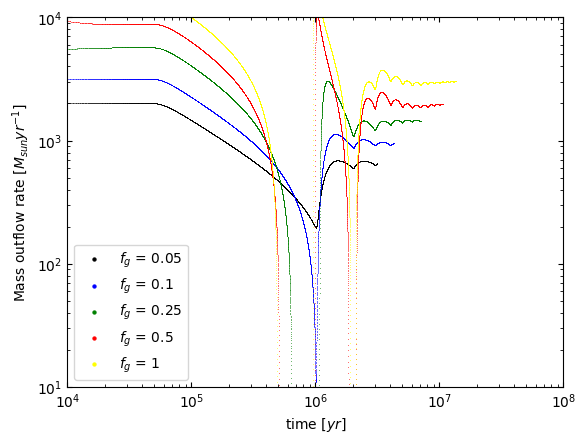
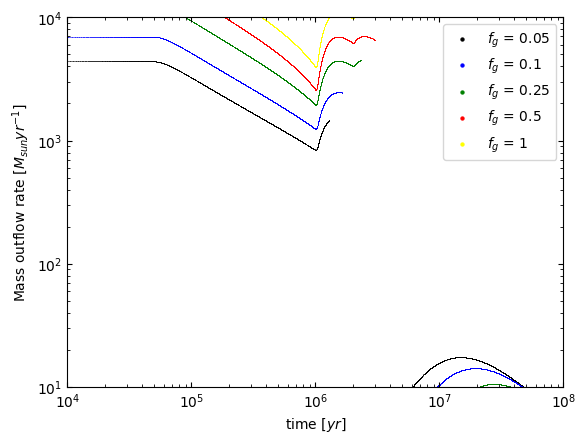
cleanup code, remove stupid mistake

diff --git a/main.py b/main.py
@@ -31,8 +31,7 @@ if __name__ == '__main__':
         dotdot_radius_arr[k, 0] = dotdot_radius
         delta_radius_arr[k, 0] = delta_radius
 
-        disc_mass = total_masses[k] * bulge_disc_totalmass_fractions[k] * (
-                1 - bulge_totalmasses[k]) * disc_gas_fractions[k]
+        disc_mass = total_masses[k] * bulge_disc_totalmass_fractions[k] * (1 - bulge_totalmasses[k]) * disc_gas_fractions[k]
 
         cooling_radius = 0.52 * math.sqrt(
             (bulge_disc_gas_fractions[k] / 0.16)) * 1.e-5 / unit_kpc  # cooling radius in kpc
@@ -86,7 +85,7 @@ if __name__ == '__main__':
 
             # ;SMBH growth and luminosity calculation ends
 
-            (radius_arr, dot_radius_arr, dot_radius, dotdot_radius) = \
+            (radius_arr, dot_radius_arr, dotdot_radius) = \
                 Integrator.driving_force_calc(driving_force, mg, radius_arr[k, index], eta_drive, integration_method, luminosity, mdg,
                                               dot_radius_arr[k, index], dotdot_radius_arr[k, index], mp, mdp, mddg, dot_rt_arr, radius_arr,
                                               dot_radius_arr, dotdot_radius_arr, k, index, dt)
@@ -94,10 +93,13 @@ if __name__ == '__main__':
             # TODO do I need to implement clearing oscillations
             # if clear_oscillations:
 
-            pressure_contact_arr[k, index] = 4. / 3. * (dot_radius ** 2) * rhogas2 * (
-                    1. - 1. / (5. * ((dot_radius / sigma) ** 2)))
-            pressure_outer_arr[k, index] = (mg * dotdot_radius + mdg * dot_radius + mg * (mp + mg / 2.) / (
-                    radius ** 2)) / (4 * math.pi * (radius ** 2))
+            # TODO implement this correctly
+            # pressure_contact_arr[k, index] = 4. / 3. * (dot_radius ** 2) * rhogas2 * (
+            #         1. - 1. / (5. * ((dot_radius / sigma) ** 2)))
+            # pressure_outer_arr[k, index] = (mg * dotdot_radius + mdg * dot_radius + mg * (mp + mg / 2.) / (
+            #         radius ** 2)) / (4 * math.pi * (radius ** 2))
+            # print(dot_radius, ' maybe wrong dot radius')
+
             # pres[k, i] = 4. / 3. * rd ^ 2. * rhogas2 * (1. - 1. / (5. * (rd / sigma) ^ 2.))  # ;pressure at the outer shock
             # p2 = (mg * rdd + mdg * rd + mg * (mp + mg / 2.) / r ^ 2.) / (4 *!pi * r ^ 2.)  # ;pressure at the contact discontinuity
             # pres2[k, i] = p2
@@ -116,10 +118,10 @@ if __name__ == '__main__':
                 is_main_loop = ending(is_main_loop)
 
     radius_arr = radius_arr * unit_kpc
-    dot_radius = dot_radius * unit_velocity/1.e5
+    dot_radius_arr = dot_radius_arr * unit_velocity/1.e5
     time_arr = time_arr * unit_year
-    pressure_contact_arr = pressure_contact_arr / unit_length / (unit_time ** 2)
-    pressure_outer_arr = pressure_outer_arr / unit_length / (unit_time ** 2)
+    # pressure_contact_arr = pressure_contact_arr / unit_length / (unit_time ** 2)
+    # pressure_outer_arr = pressure_outer_arr / unit_length / (unit_time ** 2)
     dot_mass_arr = dot_mass_arr * unit_sunmass / unit_year
     mass_out_arr = mass_out_arr * unit_sunmass
     total_mass_arr = total_mass_arr * unit_sunmass

diff --git a/models/mass_calc.py b/models/mass_calc.py
@@ -1,4 +1,4 @@
-# good naming? Or better dot_R, dotdot_R and add legend that R stands for radius?
+# TODO good naming? Or better dot_R, dotdot_R and add legend that R stands for radius?
 # r = radius r = rvals[0]
 # rdot = rvals[1] -> dot_radius
 # rddot = rvals[2] -> dotdot_radius
@@ -24,6 +24,7 @@ import math
 
 
 # TODO figure out correct names for variables from physics
+# TODO make this file readable
 
 def mass_calculation(radius, dot_radius, dotdot_radius, delta_radius, halo_profile, bulge_profile, disc_profile,
                      total_mass, virial_radius, halo_concentration_parameter, bulge_scale, disc_scale,
@@ -58,14 +59,6 @@ def mass_calculation(radius, dot_radius, dotdot_radius, delta_radius, halo_profi
                                                                                              dotdot_radius, halo_scale,
                                                                                              radius_scaled, radius)
 
-    # print(mt, ' mt')
-    # print(mdt, ' mdt')
-    # print(mddt)
-    # print(rho_halo)
-    # print(rho2_halo)
-    # print(phi_halo)
-    # print(phi_grad_halo, ' phigrad')
-
     bulge_disc_mass_member = 1 - bulge_disc_totalmass_fraction
     halo_gas_member = 1 - halo_gas_fraction
     bulge_halo_members = bulge_disc_mass_member * halo_gas_member
@@ -90,25 +83,14 @@ def mass_calculation(radius, dot_radius, dotdot_radius, delta_radius, halo_profi
 
     #
     mbb = bulge_totalmass * bulge_disc_totalmass_fraction * total_mass  # mbb - what's that?
-    # print(bulge_totalmass, ' bt')
-    # print(bulge_disc_totalmass_fraction, ' fbt')
-    # print(total_mass, ' mtot')
     bulge_scaled = radius / bulge_scale
 
     IsothermalBulgeProfile = Isothermal()
+    # TODO think how to write these in more readable way
     (mb, mdb, mddb, rho_bulge, rho2_bulge, phi_bulge, phi_grad_bulge) = IsothermalBulgeProfile.calculate(mbb, radius,
                                                                                                          dot_radius,
                                                                                                          dotdot_radius,
                                                                                                          bulge_scale)
-    # print(mb, ' mb')
-    # print(mdb, ' mdb')
-    # print(mddb, ' mddb')
-    # # print(rho_bulge, ' rhobulge')
-    # print('%.2E' % Decimal(rho_bulge), ' rhobulge')
-    # print(rho2_bulge)
-    # print(phi_bulge)
-    # print(phi_grad_bulge, ' phigradbulge')
-
     bulge_disc_gas_member = 1 - bulge_disc_gas_fraction
 
     mbp = mb * bulge_disc_gas_member
@@ -129,6 +111,7 @@ def mass_calculation(radius, dot_radius, dotdot_radius, delta_radius, halo_profi
     rhobgas = rho_bulge * bulge_disc_gas_fraction
     rhobgas2 = rho2_bulge * bulge_disc_gas_fraction
 
+    # TODO remove usage of my Calculator
     deltaphi = Calculator.multiply(4, math.pi, radius ** 2, (rhohgas + rhobgas), delta_radius,
                                    1 + delta_radius / radius + (delta_radius ** 2) / (3. * radius ** 2), phih + phib)
 

diff --git a/abstractions/DrivingForceIntegrator.py b/abstractions/DrivingForceIntegrator.py
@@ -55,9 +55,9 @@ class DrivingForceIntegrator:
             radius_arr[k, index + 1] = radius + dot_radius * dt
         else:
             radius_arr[k, index + 1] = radius + dot_radius * dt + 0.5 * dotdot_radius * dt ** 2 + (1. / 6.) * dot_rt * dt ** 3
-        return radius_arr, dot_radius_arr, dot_radius, dotdot_radius
 
-    #     arrrtdot[k, i] = rtdot
+        return radius_arr, dot_radius_arr, dotdot_radius
+
     #     arrrddot[k, i + 1] = rdd + rtdot * dt
     #     arrrdot[k, i + 1] = rd + rdd * dt + 0.5 * rtdot * dt ^ 2.
     #     if arrrdot[k, i + 1] gt 2 * eta_dr * cc then begin

diff --git a/input_parameters/initial_values.py b/input_parameters/initial_values.py
@@ -1,12 +1,14 @@
 from input_parameters.program_units import unit_kpc, unit_velocity
 import input_parameters.parameters as params
 
+dot_radius = 0
 radius = 0.001 / unit_kpc  # arrr[k, 0] = 0.001 / C.unit_kpc
-dot_radius = 1.e5 / unit_velocity
+var = 100000.00000
+dot_radius = var / unit_velocity
 dotdot_radius = 0
 delta_radius = 0
 
-
+# TODO remove values here, use .value where the implementation is if needed
 halo_profile = params.PROFILE_TYPES.NFW.value
 bulge_profile = params.PROFILE_TYPES.ISOTHERMAL.value
 disc_profile = params.DISC_PROFILE.EXPONENTIAL.value

diff --git a/models/NFW.py b/models/NFW.py
@@ -1,6 +1,6 @@
 import math
 
-
+# TODO remove calculations from constructor and transfer it to calc_mass
 class NFW:
     def __init__(self, total_mass, radius_scaled, concentration):
         self.total_mass = total_mass
